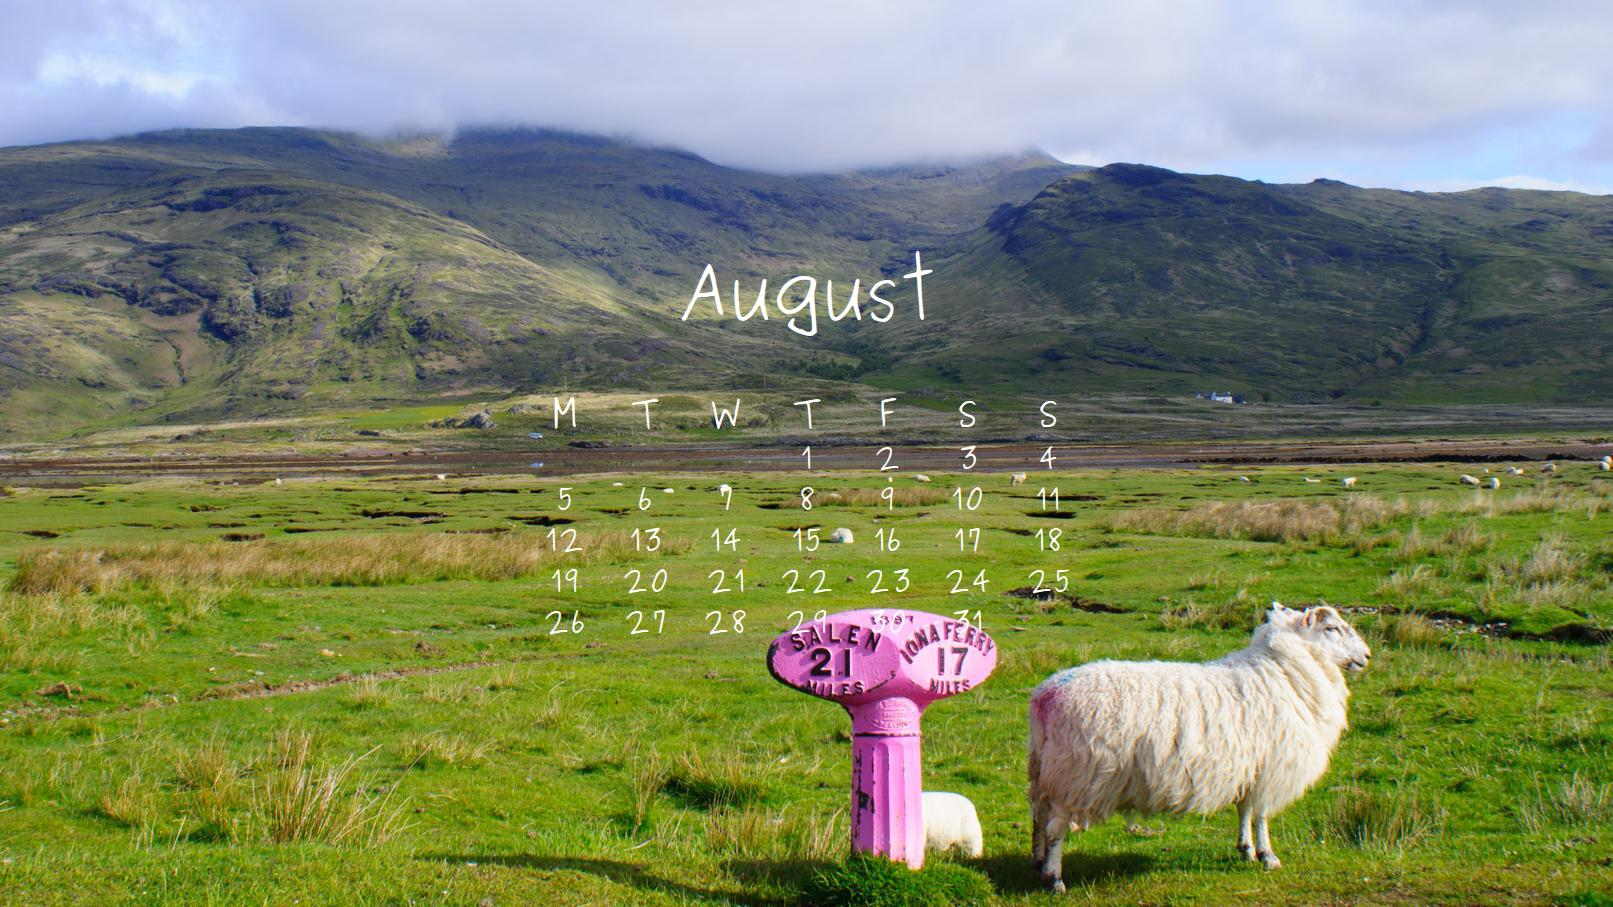
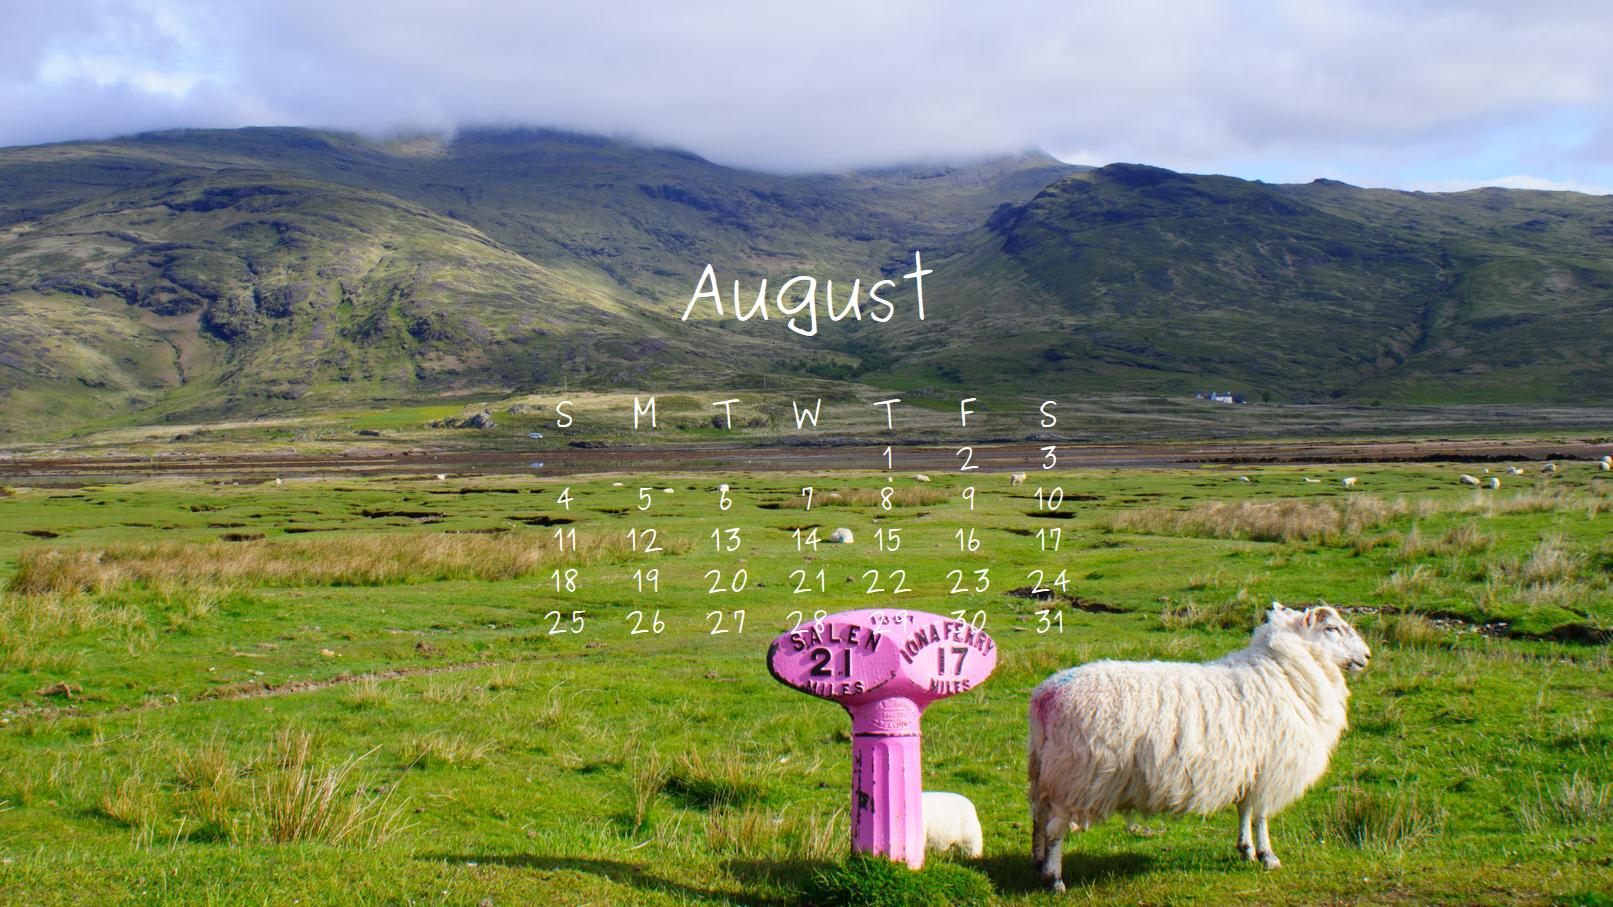
Fixed positions for start_monday = FALSE

diff --git a/README.md b/README.md
@@ -3,10 +3,10 @@
 
 # wallpapr
 
-wallpapr is a little toy package to make desktop and phone backgrounds.
-The design is inspired (aka copied one-to-one) by the beautiful calender
-wallpapers of [Emma](http://emmastudies.com). You can check out her
-wallpapers at:
+wallpapr is a little toy `R` package to make desktop and phone
+backgrounds. The design is inspired (aka copied one-to-one) by the
+beautiful calender wallpapers of [Emma](http://emmastudies.com). You can
+check out her wallpapers at:
 [emmastudies.com/tagged/download](http://emmastudies.com/tagged/download).
 With this package you can create your own calender wallpapers using an
 input image.
